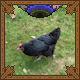
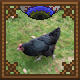
added item to summon chicken jockey mount

Changed region(s): [[0.0, 0.0, 1.0, 1.0]]

diff --git a/Content/Items/ChickenJockey.cs b/Content/Items/ChickenJockey.cs
@@ -1,0 +1,24 @@
+using Terraria;
+using Terraria.ID;
+using Terraria.ModLoader;
+
+namespace Chickensubclass.Content.Items
+{
+    public class ChickenJockey : ModItem
+    {
+        public override void SetDefaults() {
+            Item.width = 32;
+            Item.height = 38;
+            Item.useTime = 20;
+            Item.useAnimation = 20;
+            Item.useStyle = ItemUseStyleID.HoldUp;
+            Item.value = Item.sellPrice(gold: 3);
+            Item.rare = ItemRarityID.LightRed; // Pink/Light Red fits Pre-Plantera progression
+            Item.UseSound = SoundID.Item79;
+            Item.noMelee = true;
+
+            // Connects this item to your mount class
+            Item.mountType = ModContent.MountType<Mounts.ChickenJockeyMount>();
+        }
+    }
+}

diff --git a/obj/Debug/net8.0/Chickensubclass.AssemblyInfo.cs b/obj/Debug/net8.0/Chickensubclass.AssemblyInfo.cs
@@ -13,7 +13,7 @@ using System.Reflection;
 [assembly: System.Reflection.AssemblyCompanyAttribute("Chickensubclass")]
 [assembly: System.Reflection.AssemblyConfigurationAttribute("Debug")]
 [assembly: System.Reflection.AssemblyFileVersionAttribute("1.0.0.0")]
-[assembly: System.Reflection.AssemblyInformationalVersionAttribute("1.0.0+2982998e49328ed2034abe96a0ff799a4bbad7c8")]
+[assembly: System.Reflection.AssemblyInformationalVersionAttribute("1.0.0+7855d4daab533afdb82ceacc902de69528795942")]
 [assembly: System.Reflection.AssemblyProductAttribute("Chickensubclass")]
 [assembly: System.Reflection.AssemblyTitleAttribute("Chickensubclass")]
 [assembly: System.Reflection.AssemblyVersionAttribute("1.0.0.0")]
